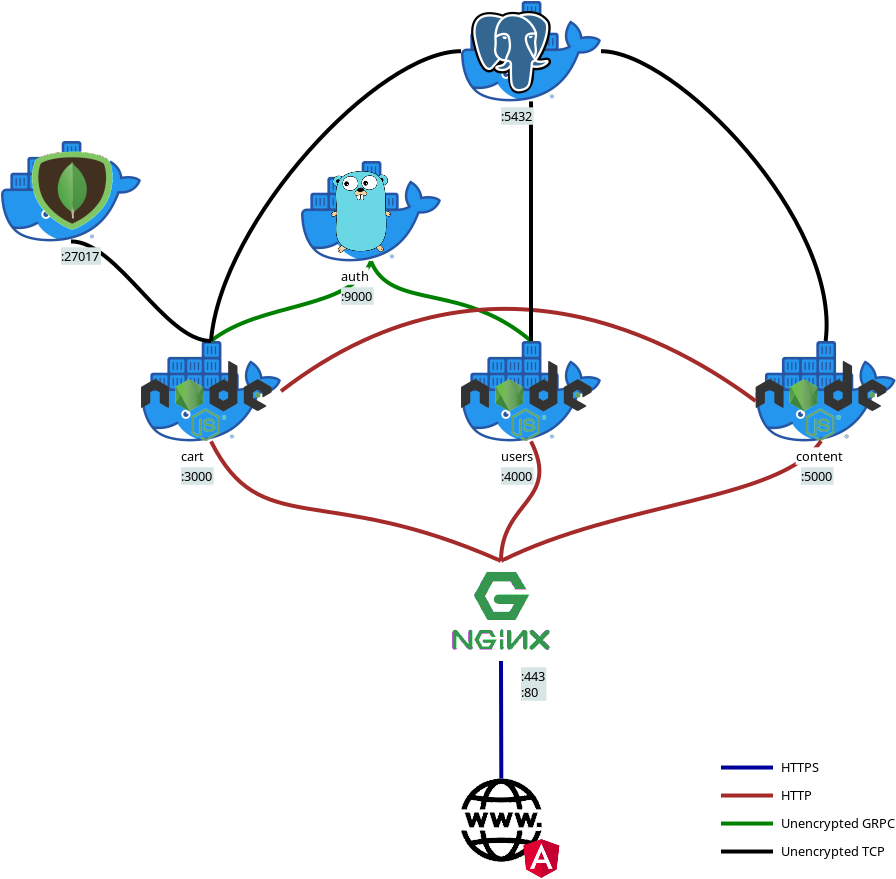
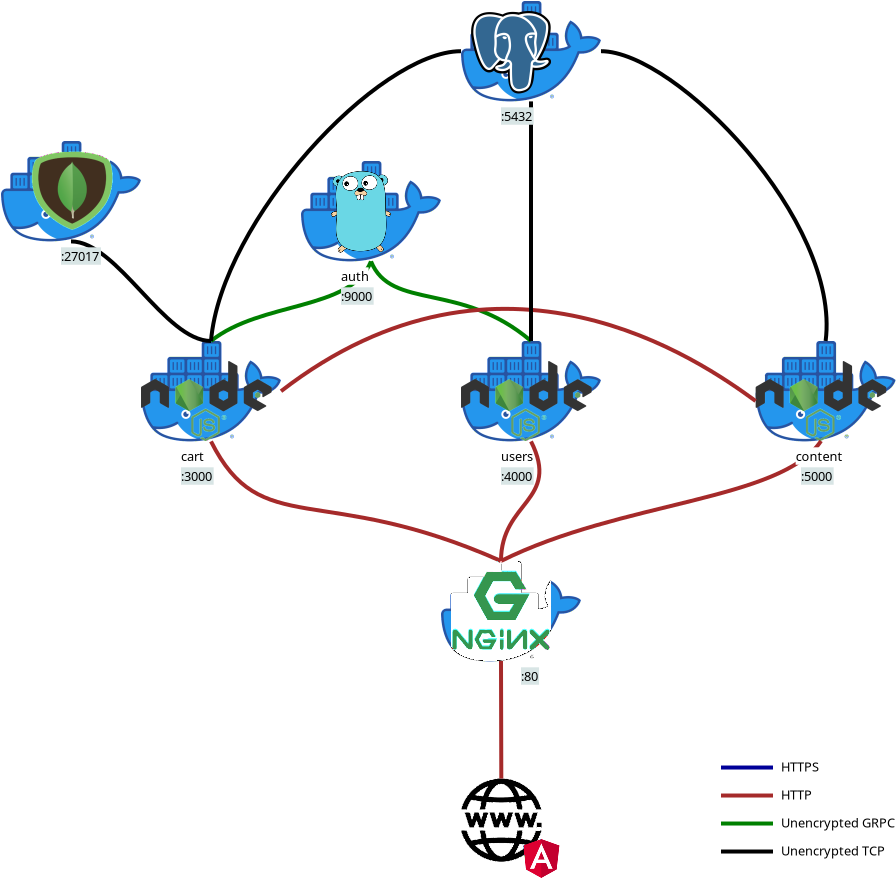
Updated README.md
Added TLS suggested architecture

Changed region(s): [[0.4688, 0.6451, 0.6562, 0.8908], [0.875, 0.9215, 1.0, 0.9829], [0.9062, 0.4915, 0.9375, 0.5222]]

diff --git a/README.md b/README.md
@@ -28,6 +28,19 @@ wget -O deploy.sh https://raw.githubusercontent.com/BenjaminGuzman/webmock/v2/de
 
 TODO insert video tutorial
 
+If you want to add TLS, the following architecture is suggested
+
+![TLS Architecture](docs/arch-tls.jpg)
+
+More clearly, just add a non-dockerized nginx server with 2 main purposes:
+
+1. Act as reverse proxy, i.e. forward all requests to (dockerized) nginx plain HTTP server at 127.0.0.1:8080
+
+2. Handle TLS. The server should have open port 443 and (optionally) port 80 to redirect to https.
+
+To add TLS to the non-dockerized nginx server [certbot](https://certbot.eff.org/) and 
+[Let's Encrypt](https://letsencrypt.org/) are recommended.
+
 ## Develop
 
 If you want to run the project locally you'll need to spin up the angular server (described in Frontend section) and 
